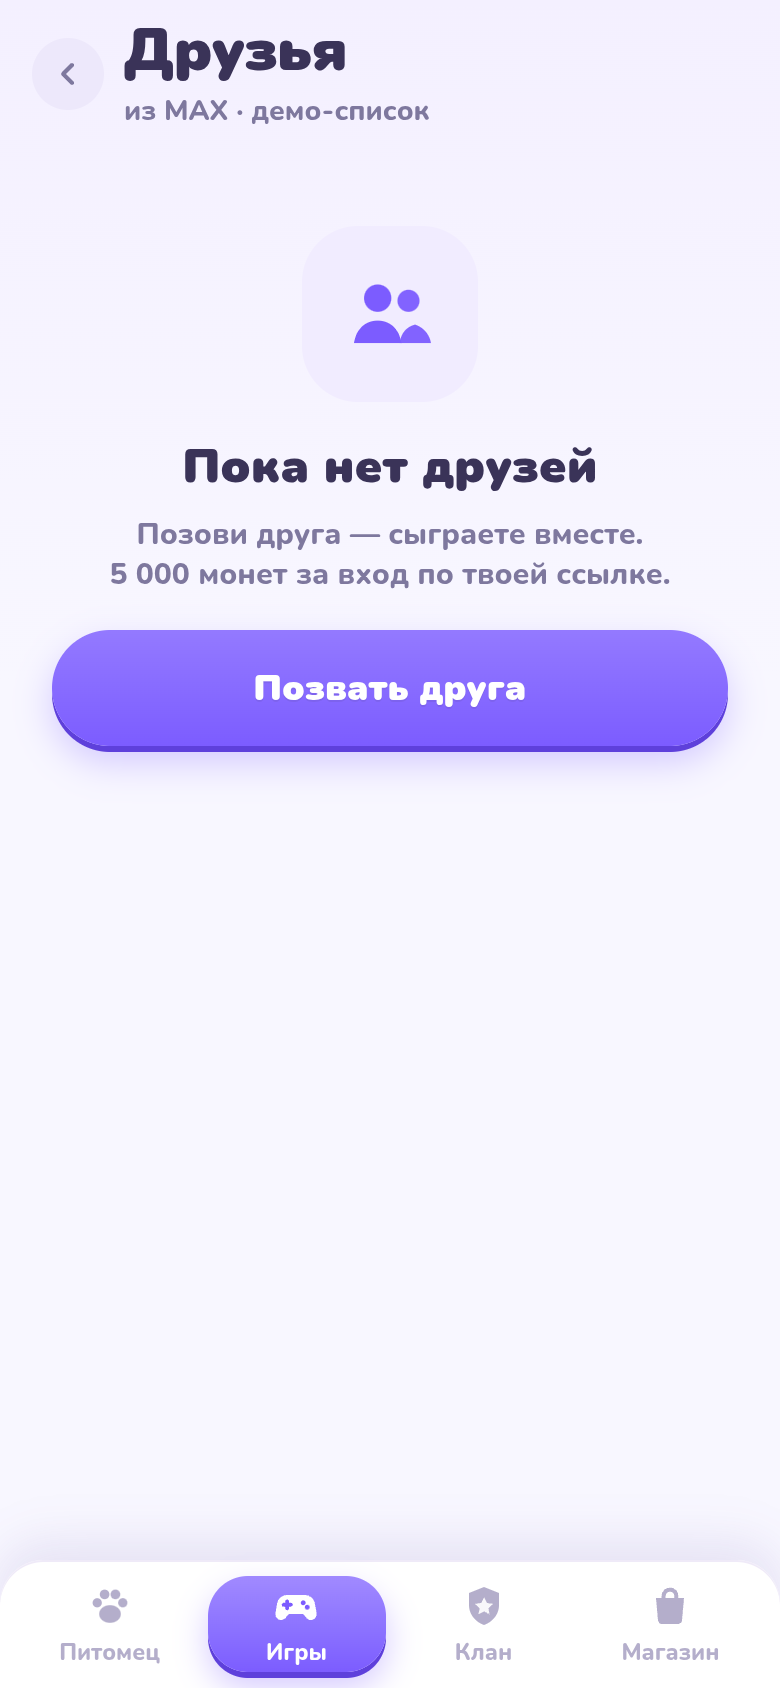
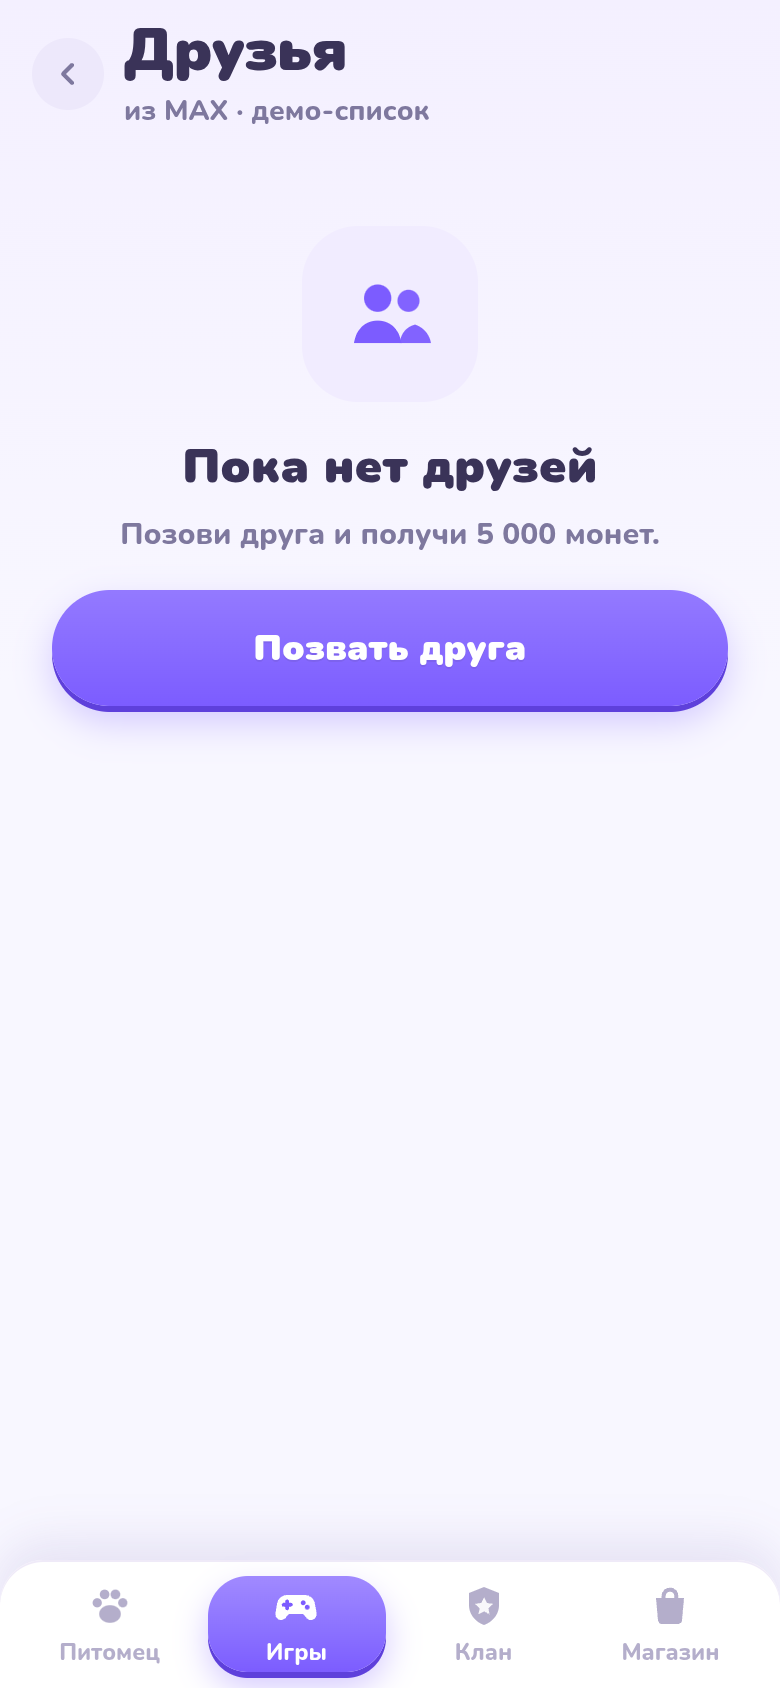
Shorten the Friends empty-state copy to one line.

Changed region(s): [[0.0615, 0.3081, 0.9538, 0.4621]]

diff --git a/tapyshi-concept/friends/variants.html b/tapyshi-concept/friends/variants.html
@@ -4,29 +4,29 @@
 <meta name="viewport" content="width=device-width,initial-scale=1,maximum-scale=1,user-scalable=no,viewport-fit=cover">
 <meta name="format-detection" content="telephone=no">
 <title>Тапыши · Друзья · варианты верха</title>
-<link rel="stylesheet" href="../shared/tokens.css?v=tc11152110">
-<link rel="stylesheet" href="../shared/components.css?v=tc11152110">
-<link rel="stylesheet" href="variants.css?v=tc11152110">
+<link rel="stylesheet" href="../shared/tokens.css?v=tc11152114">
+<link rel="stylesheet" href="../shared/components.css?v=tc11152114">
+<link rel="stylesheet" href="variants.css?v=tc11152114">
 </head>
 <body class="hub no-tabs">
 <div class="app">
   <div class="lead">
     <span class="brand">Концепт · друзья</span>
     <h1>Верх экрана «Друзья»</h1>
-    <p>Вариант B выбран основным. Список и вкладки те же. Основной экран — <a href="../games/?friends=1&amp;v=tc11152110">/games/?friends=1</a>, пустой список — <a href="../games/?empty=1&amp;v=tc11152110">?empty=1</a>.</p>
+    <p>Вариант B выбран основным. Список и вкладки те же. Основной экран — <a href="../games/?friends=1&amp;v=tc11152114">/games/?friends=1</a>, пустой список — <a href="../games/?empty=1&amp;v=tc11152114">?empty=1</a>.</p>
   </div>
   <div class="vars">
-    <a class="vcard spring" href="./?fv=a&amp;v=tc11152110">
+    <a class="vcard spring" href="./?fv=a&amp;v=tc11152114">
       <span class="let">A</span>
       <b>Спокойная карточка</b>
       <span>Без жёлтой плашки и золотой суммы. Награда — тихая строка, статистика рядом, одним блоком.</span>
     </a>
-    <a class="vcard spring" href="../games/?friends=1&amp;v=tc11152110">
+    <a class="vcard spring" href="../games/?friends=1&amp;v=tc11152114">
       <span class="let">B</span>
       <b>Подсказка и счёт в секции · основной</b>
       <span>Кнопка без цифр. 5&nbsp;000 — в подсказке «i». Счёт приглашений переехал в заголовок «Приглашён тобой».</span>
     </a>
-    <a class="vcard spring" href="./?fv=c&amp;v=tc11152110">
+    <a class="vcard spring" href="./?fv=c&amp;v=tc11152114">
       <span class="let">C</span>
       <b>Кнопка в шапке</b>
       <span>Приглашение свёрнуто в компактную кнопку «Позвать» справа в шапке. Счёт — у секции приглашённых.</span>

diff --git a/tapyshi-concept/friends/index.html b/tapyshi-concept/friends/index.html
@@ -4,11 +4,11 @@
 <meta charset="utf-8">
 <meta name="viewport" content="width=device-width, initial-scale=1, viewport-fit=cover">
 <title>Тапыши · Друзья</title>
-<link rel="stylesheet" href="../games/shared/tokens.css?v=tc11152110">
-<link rel="stylesheet" href="../games/shared/components.css?v=tc11152110">
+<link rel="stylesheet" href="../games/shared/tokens.css?v=tc11152114">
+<link rel="stylesheet" href="../games/shared/components.css?v=tc11152114">
 <link rel="stylesheet" href="../games/catalog-a/style.css?v=tc11141101">
 <link rel="stylesheet" href="../games/shared/screens.css?v=tc11141101">
-<link rel="stylesheet" href="variants.css?v=tc11152110">
+<link rel="stylesheet" href="variants.css?v=tc11152114">
 </head>
 <body>
 <div id="app"></div>
@@ -19,7 +19,7 @@
   var empty = q.get('empty') === '1';
   if(fv !== 'a' && fv !== 'b' && fv !== 'c'){
     if(!empty){
-      location.replace('variants.html?v=tc11152110');
+      location.replace('variants.html?v=tc11152114');
       return;
     }
     fv = 'b';
@@ -32,9 +32,9 @@
 })();
 </script>
 <script src="../games/shared/games.js?v=tc11141101"></script>
-<script src="../games/shared/screens.js?v=tc11152110"></script>
+<script src="../games/shared/screens.js?v=tc11152114"></script>
 <script src="../shared/nav.js?v=tc11141101"></script>
 <script src="../shared/invite.js?v=tc11141101"></script>
-<script src="../games/proto.js?v=tc11152110"></script>
+<script src="../games/proto.js?v=tc11152114"></script>
 </body>
 </html>

diff --git a/tapyshi-concept/games/shared/screens.js b/tapyshi-concept/games/shared/screens.js
@@ -210,7 +210,7 @@ function friends(o){
     head='<header class="fr-top"><button type="button" class="ibtn ibtn--round" data-act="close" aria-label="Назад">'+IC.back+'</button><div class="ttl"><h1>Друзья</h1><p>из MAX · демо-список</p></div><button type="button" class="fr-head-invite spring" data-act="invite-any" aria-label="Позвать друга">'+invIc+'<span>Позвать</span></button></header>';
     cta='';
   }
-  var emptyP='Позови друга — сыграете вместе.<br>5 000 монет за вход по твоей ссылке.';
+  var emptyP='Позови друга и получи 5 000 монет.';
   if(empty){
     return '<main class="page fr-page fv-'+fv+'">'+head+
       '<div class="fr-empty"><div class="fr-ghost">'+IC.people+'</div><h2>Пока нет друзей</h2><p>'+emptyP+'</p>'+

diff --git a/tapyshi-concept/games/index.html b/tapyshi-concept/games/index.html
@@ -8,15 +8,15 @@
 <link rel="stylesheet" href="shared/components.css?v=tc11141101">
 <link rel="stylesheet" href="catalog-a/style.css?v=tc11141101">
 <link rel="stylesheet" href="shared/screens.css?v=tc11141101">
-<link rel="stylesheet" href="../friends/variants.css?v=tc11152110">
+<link rel="stylesheet" href="../friends/variants.css?v=tc11152114">
 </head>
 <body>
 <div id="app"></div>
 <script>window.TAP_PROTO=1;window.TAP_BASE='shared/';</script>
 <script src="shared/games.js?v=tc11141101"></script>
-<script src="shared/screens.js?v=tc11152110"></script>
+<script src="shared/screens.js?v=tc11152114"></script>
 <script src="../shared/nav.js?v=tc11141101"></script>
 <script src="../shared/invite.js?v=tc11141101"></script>
-<script src="proto.js?v=tc11152110"></script>
+<script src="proto.js?v=tc11152114"></script>
 </body>
 </html>
